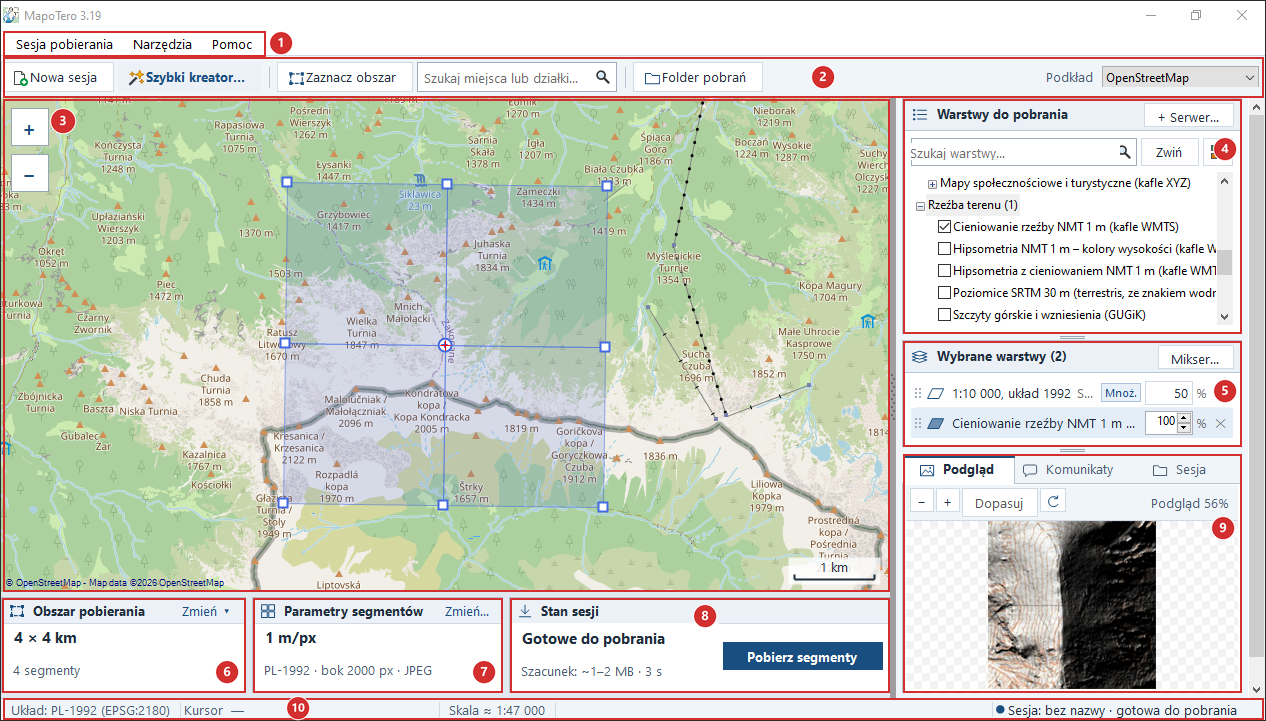
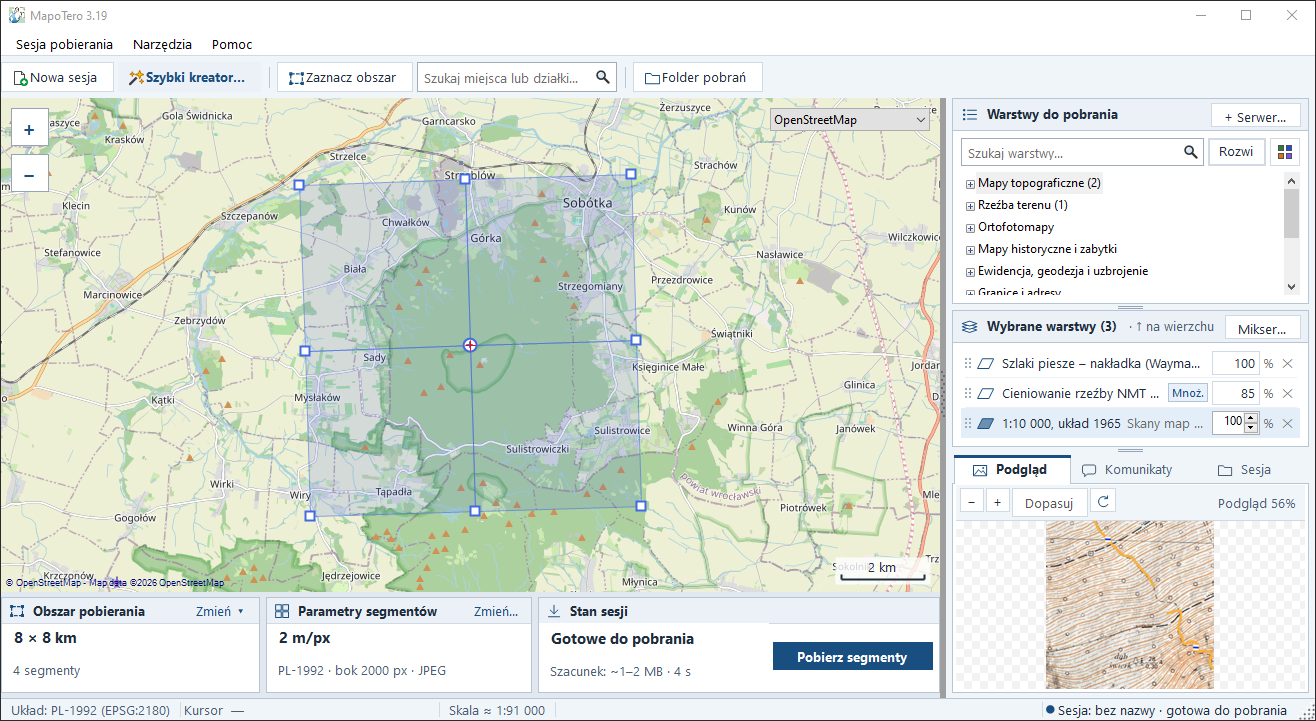
Nowy czysty zrzut okna głównego w README i pomocy online
- Zastąpiono pierwszy zrzut okna głównego (pomoc/obrazy/03-okno-glowne.png) czystym widokiem programu bez czerwonych ramek.
- Dotychczasowy schemat z ponumerowanymi sekcjami (1-10) przeniesiono do pomoc/obrazy/03-okno-glowne-sekcje.png i umieszczono w zwijanej sekcji w pomoc/okno-glowne.md pod tabelą opisu elementów.

diff --git a/pomoc/okno-glowne.md b/pomoc/okno-glowne.md
@@ -21,9 +21,9 @@ Opis każdego elementu nowoczesnego okna głównego: paska narzędziowego, mapy 
 
 ## Widok całego okna
 
-![Okno główne programu MapoTero z ponumerowanymi elementami]({{ '/pomoc/obrazy/03-okno-glowne.png' | relative_url }})
+![Okno główne programu MapoTero]({{ '/pomoc/obrazy/03-okno-glowne.png' | relative_url }})
 
-*Rysunek 1. Nowy, czytelny układ okna głównego programu MapoTero z ponumerowanymi sekcjami.*
+*Rysunek 1. Okno główne programu MapoTero — mapa podglądu z siatką segmentów, katalog warstw, kompozycja warstw z podglądem na żywo oraz karty obszaru, parametrów i stanu sesji.*
 
 | Nr | Element okna | Do czego służy |
 |---|---|---|
@@ -37,6 +37,15 @@ Opis każdego elementu nowoczesnego okna głównego: paska narzędziowego, mapy 
 | **8** | Karta *Stan sesji* | przycisk **Pobierz segmenty** (w trakcie pracy **Przerwij pobieranie**), a po skompletowaniu segmentów **Eksportuj pobraną mapę…**. Ikona i kolor sygnalizują stan sesji |
 | **9** | Zakładki prawego panelu | trzy zakładki: **Podgląd** (próbka kompozycji z przyciskami `-`, `+`, `Dopasuj`, odświeżaniem i powiększeniem w %), **Komunikaty** (dziennik zdarzeń i błędów) oraz **Sesja** (szczegóły folderu sesji i przycisk *Usuń pobrane*) |
 | **10** | Pasek stanu | układ współrzędnych sesji, pozycja kursora (`X`, `Y`), przybliżona skala mapy oraz aktywna sesja z kolorową diodą stanu |
+
+<details markdown="block">
+<summary><b>Pokaż schemat okna z ponumerowanymi sekcjami (1–10)</b></summary>
+
+![Okno główne programu MapoTero z ponumerowanymi sekcjami]({{ '/pomoc/obrazy/03-okno-glowne-sekcje.png' | relative_url }})
+
+*Schemat rozmieszczenia sekcji okna głównego opisanych w tabeli powyżej (1–10).*
+
+</details>
 
 Układ okna dzieli się na dwie główne kolumny:
 * **po lewej**: mapa podglądu z górnym paskiem narzędzi oraz trzema kartami pod mapą (*Obszar pobierania*, *Parametry segmentów*, *Stan sesji*),
